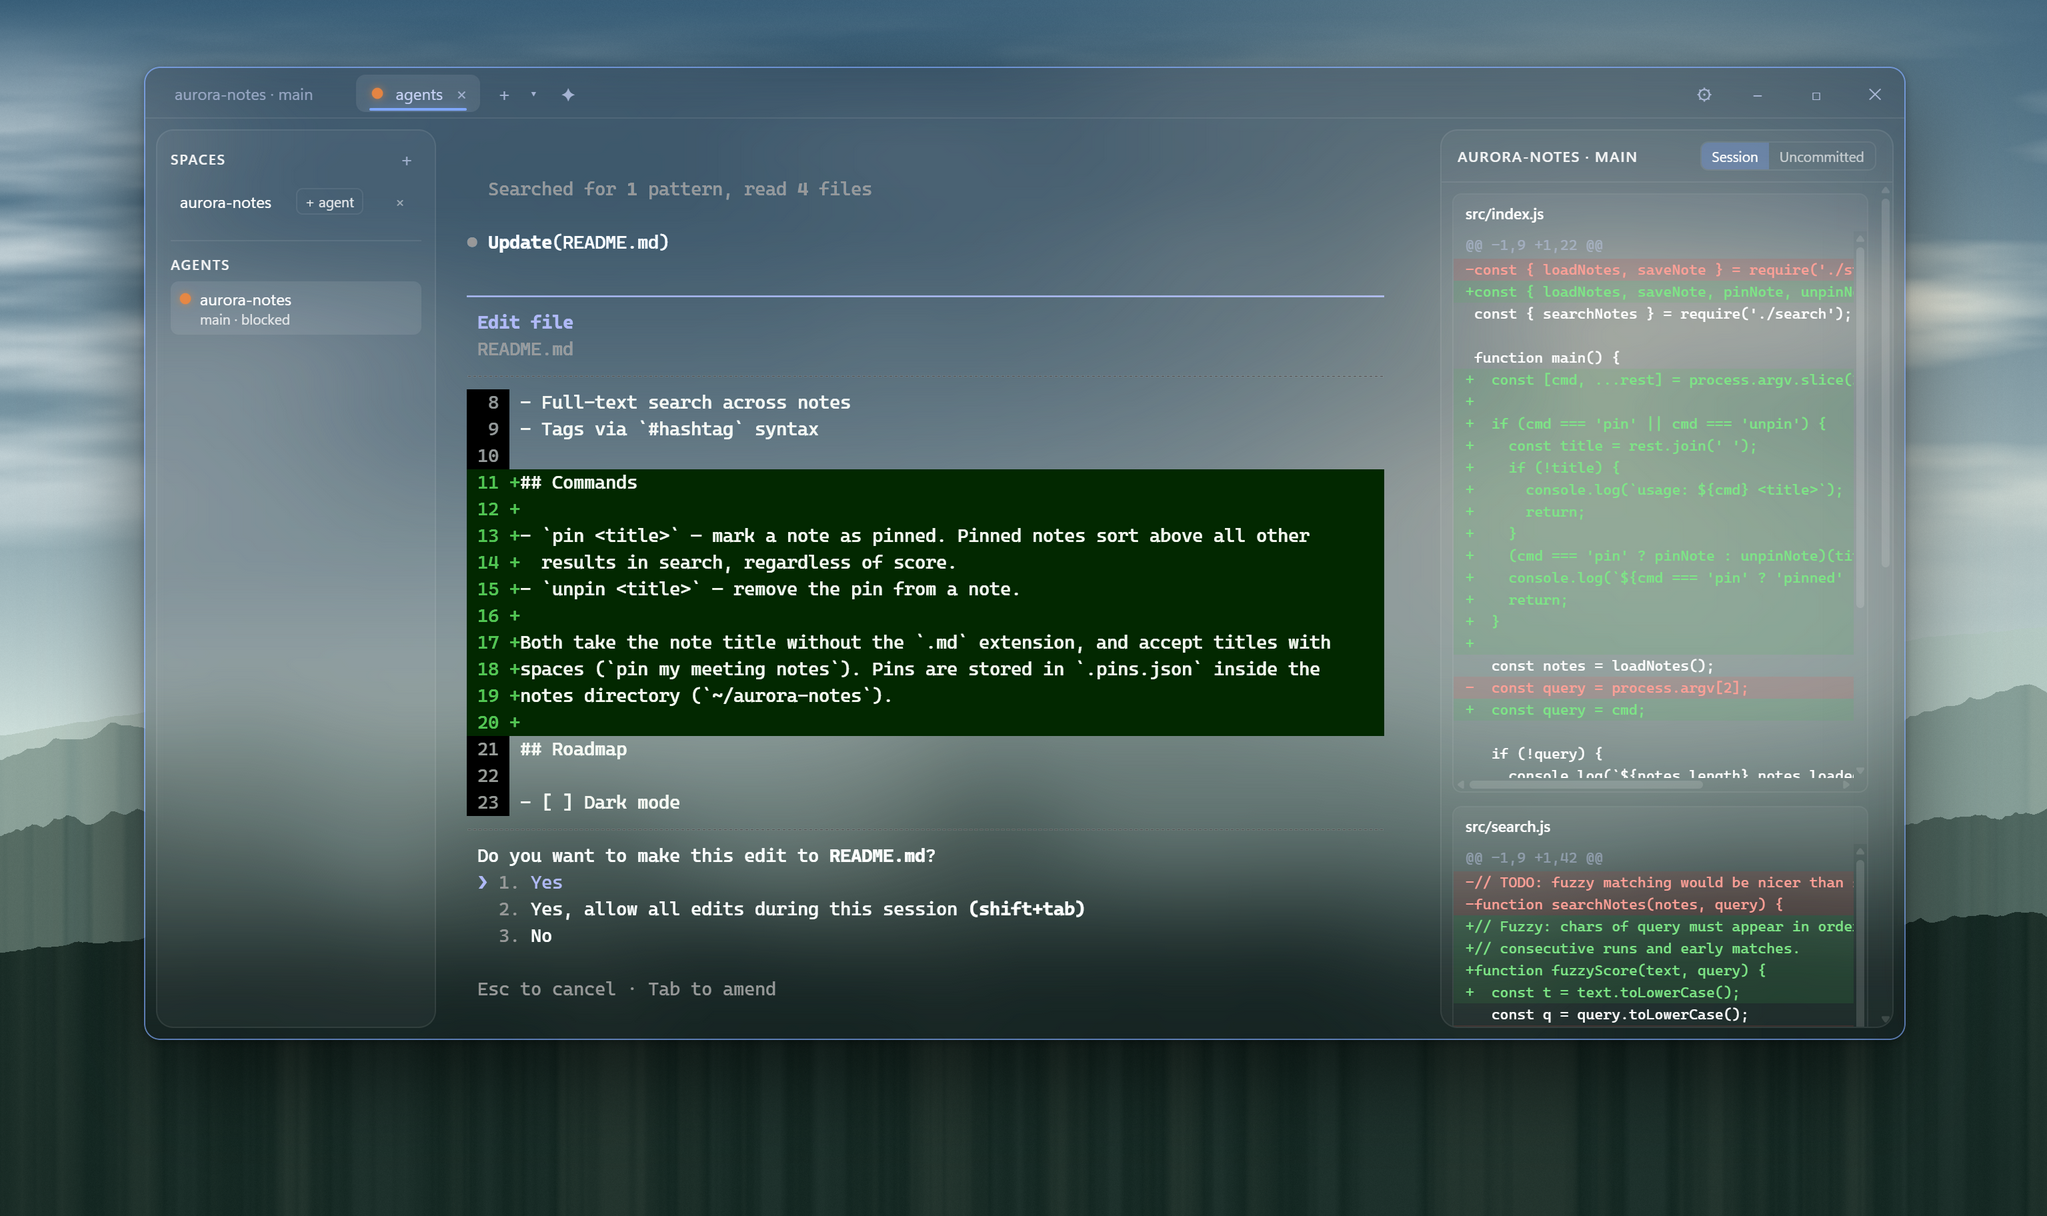
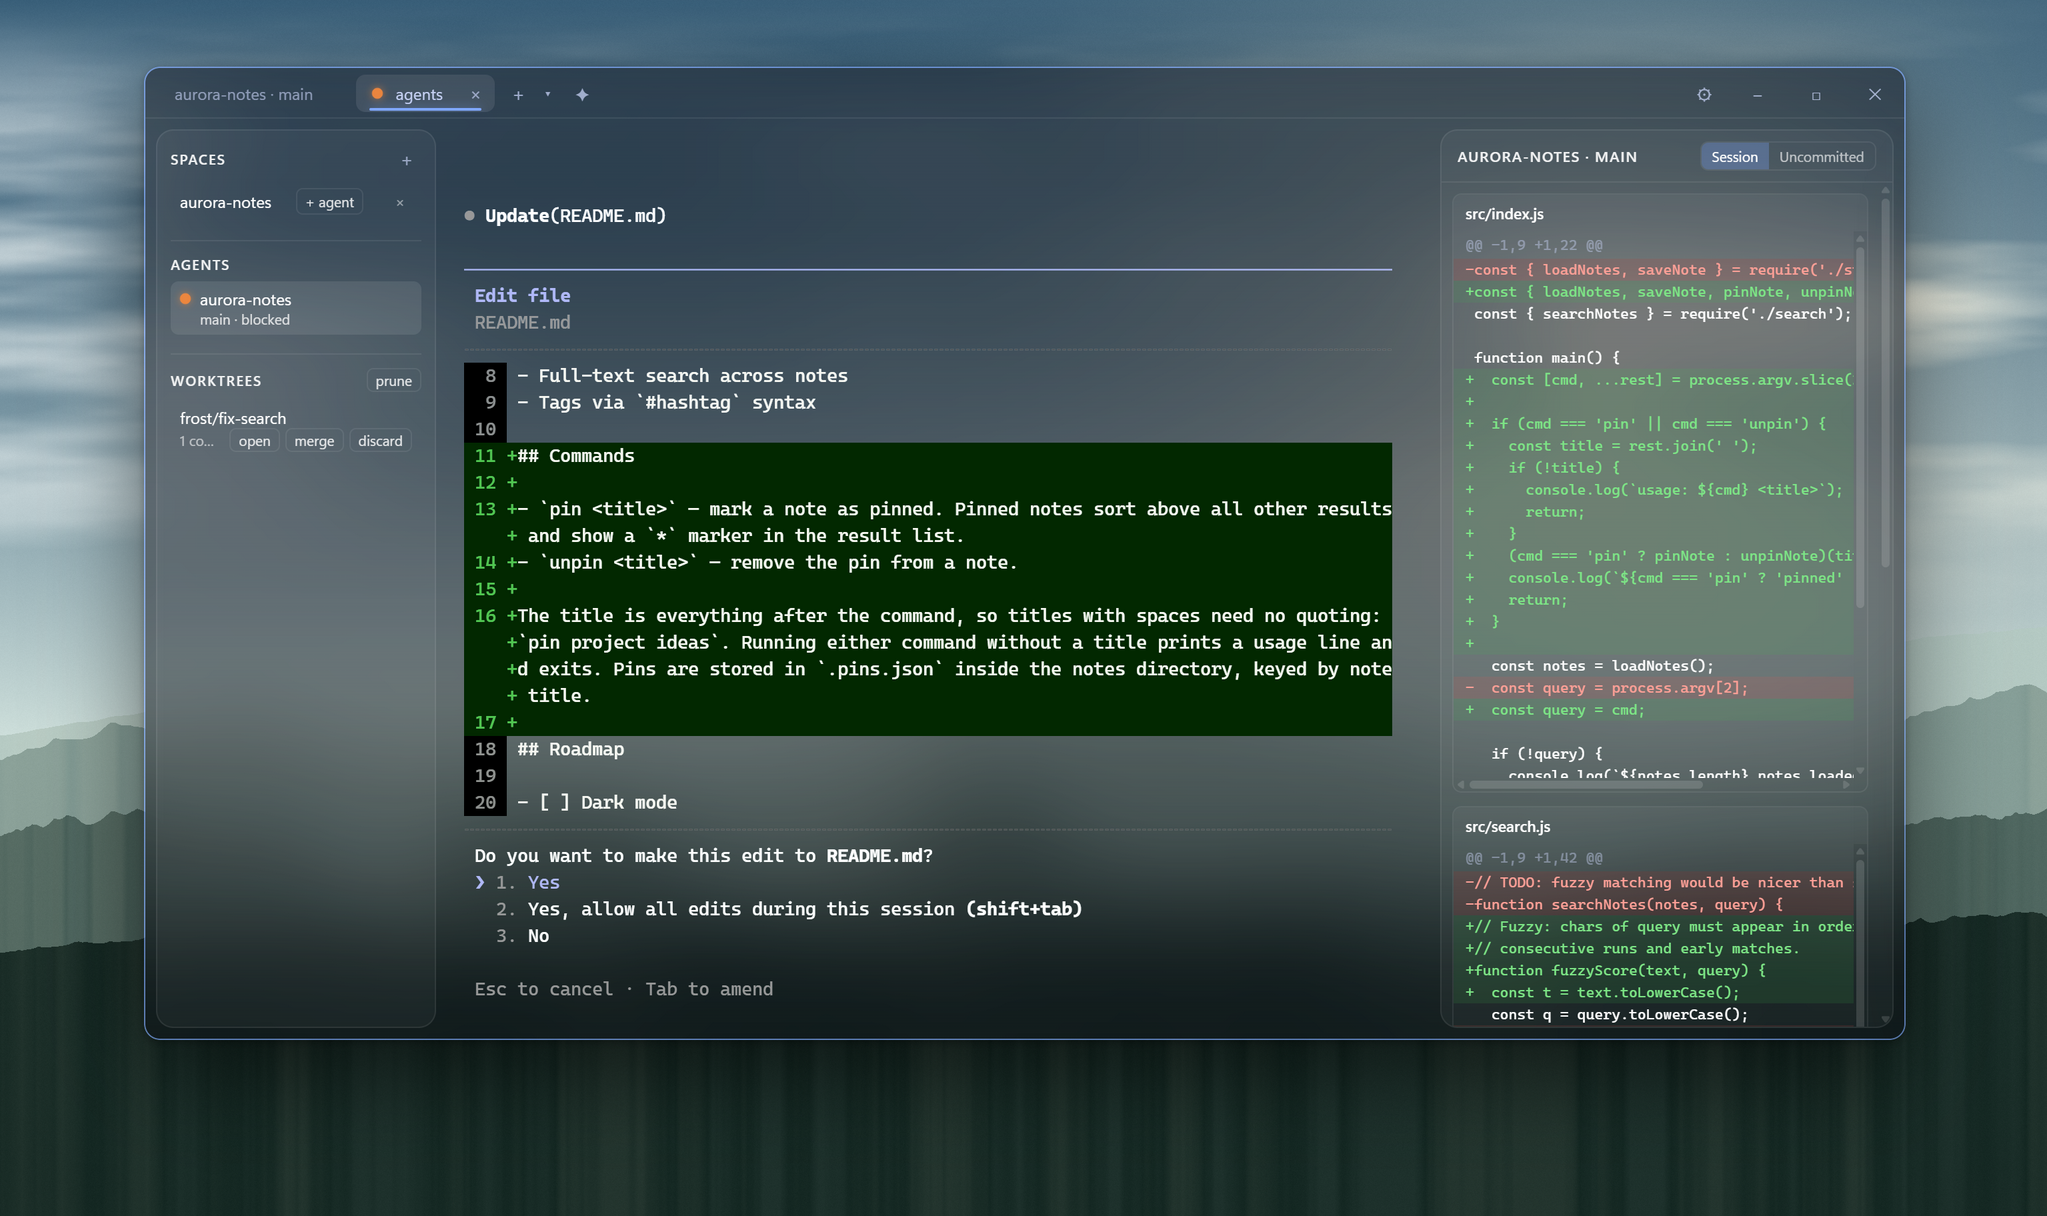
Regenerate the screenshots, and give worktree rows room
The images predated the Worktrees section, the resizable agent rail, the new
toasts and the readability scrim, so they showed an app that no longer existed.

Rendering them exposed a layout problem the tests could not see: the worktree row
put the name and three buttons on one line in a 210px rail, so a branch name
truncated to "fix-...". The name now has the row to itself with the actions
beside the metadata, and the branch is the row's title rather than being repeated
in metadata that then had no room for the commit count and dirty state — the two
things that actually change.

diff --git a/src/renderer/renderer.js b/src/renderer/renderer.js
@@ -1578,8 +1578,10 @@ function renderWorktrees(tab) {
 
     const name = document.createElement('span');
     name.className = 'wt-name';
-    // only bother naming the space when more than one is configured
-    name.textContent = spaces.size > 1 ? `${wt.space}/${wt.name}` : wt.name;
+    // The branch is what you act on, so it gets the row; the space is only worth
+    // naming when more than one is configured.
+    const label = wt.branch || wt.name + ' (detached)';
+    name.textContent = spaces.size > 1 ? `${wt.space}/${label}` : label;
 
     const actions = document.createElement('span');
     actions.className = 'wt-actions';
@@ -1634,7 +1636,9 @@ function renderWorktrees(tab) {
 
     const meta = document.createElement('span');
     meta.className = 'wt-meta';
-    const bits = [wt.branch || 'detached'];
+    // No branch here: it's the row's title now, and repeating it only crowded
+    // out the part that actually changes.
+    const bits = [];
     if (!wt.exists) bits.push('folder missing');
     else {
       if (wt.ahead) bits.push(`${wt.ahead} commit${wt.ahead > 1 ? 's' : ''}`);

diff --git a/src/renderer/style.css b/src/renderer/style.css
@@ -735,13 +735,22 @@ body.frameless #win-controls {
 }
 
 .wt-name {
+  /* the whole first row, so a branch name isn't truncated to make room for
+     buttons that fit perfectly well beside the metadata below it */
+  grid-column: 1 / -1;
   overflow: hidden;
   text-overflow: ellipsis;
   white-space: nowrap;
 }
 
+.wt-actions {
+  grid-column: 2;
+  grid-row: 2;
+}
+
 .wt-meta {
-  grid-column: 1 / -1;
+  grid-column: 1;
+  grid-row: 2;
   font-size: 10.5px;
   opacity: 0.6;
   overflow: hidden;
@@ -753,6 +762,7 @@ body.frameless #win-controls {
   display: flex;
   gap: 4px;
   flex: none;
+  align-items: center;
 }
 
 .wt-act,
